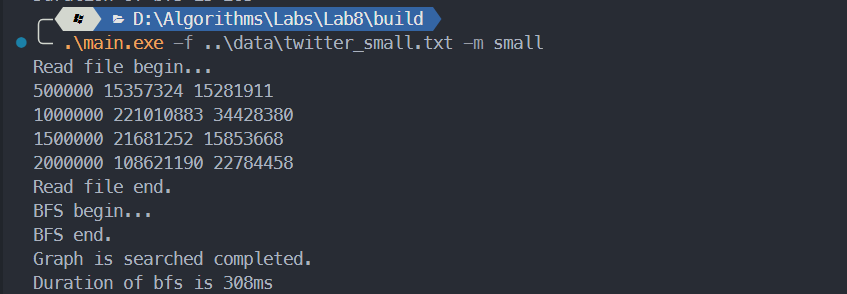
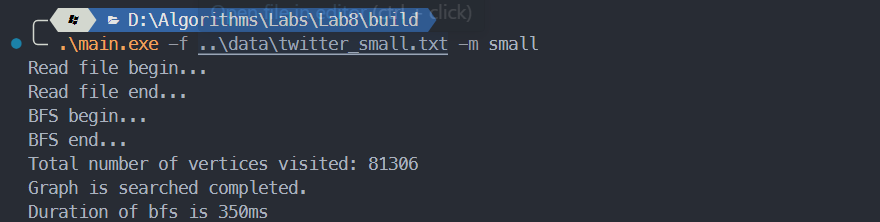
finish report

Changed region(s): [[0.0, 0.0, 0.6446, 1.0]]

diff --git a/Lab8/report/算法第八次实验实验报告.md b/Lab8/report/算法第八次实验实验报告.md
@@ -1,0 +1,161 @@
+# 算法第八次实验实验报告
+
+> 姓名：  王道宇
+>
+> 学号：  PB21030794
+
+## 实验目的
+
+1. 针对图，根据给定的数据选择合适的存储方式（邻接矩阵和邻接表中的一种）进行存储
+2. 进行图的广度优先遍历（BFS）。
+
+## 算法思想设计
+
+### BFS
+
+经典的连通图 BFS 利用队列，维护是否已经访问过的状态 visited，对图的顶点及其邻接点遍历并不断入队，直到所有的结点均访问完毕。经典的 BFS 伪代码如下：
+
+```cpp
+BFS(start){	
+	queue q;
+    q.push(start);
+    visited[start] = 1;
+    while(!q.empty()) {
+        v = q.front();
+        q.pop();
+        print(v);
+        for(each adjacent vertex 'i' of v){
+            if(visited[i] == 0){
+                q.push(i);
+                visited[i] = 1;
+            }
+        }
+    }
+}
+```
+
+非连通图的 BFS 仍然需要利用队列，但是此时需要对所有的未访问顶点调用 BFS 。伪代码如下：
+
+```cpp
+BFS(){
+    for(each vertex of vertices){
+        if(visited[i] == 0){
+			BFS(i);
+        }
+	}
+}
+```
+
+### 存储结构分析
+
+三份数据的特点和结构为：
+
+1. data
+
+   顶点数：9，边数：18，无向连通图
+
+2. twitter_small
+
+   顶点数：81306，边数： 1768149，有向非**强连通图**，有较多重边
+
+3. twitter_large
+
+   顶点数：11316811，边数：85331846，有向非**强连通图**，实际上**无重边**
+
+当图不为稀疏图时，使用邻接矩阵较为方便，可以比较直观地看出顶点间地关系，同时，查看两点之间是否有边相连只需要 O(1) 的复杂度。所以，对于第一份数据，可以直接使用**邻接矩阵**存储。
+
+当图为稀疏图时，比如 twitter_small 和 twitter_large 这两份数据，其 $\frac{E}{V^2}$ 达到了 $2.67\times10^{-4}$ 以及 $6.66\times10^{-7}$ ，那么这两份数据很适合使用**邻接表**存储。
+
+### 复杂度分析
+
+1. 数据结构设计
+
+   在设计邻接表时，使用了如下的数据结构：
+
+   ```cpp
+   	std::unordered_map<int, std::unordered_set<int>> adj_list;
+   	std::unordered_set<int>							 vertices;
+   	std::set<Edge>									 edges;
+   	std::unordered_map<int, bool>					 visited;
+   	int												 num_vertices;
+   	int												 num_edges;
+   ```
+
+   - adj_list
+
+     其键为顶点编号，其值为一个无序集合，保存了这个顶点所有邻边的编号。
+
+   - vertices
+
+     直接使用无序集合保存编号即可。
+
+   - edges
+
+     每一条边都由如下的结构体构成：
+
+     ```cpp
+     struct Edge {
+     public:
+     	Edge(int r, int c);
+     private:
+     	int row;
+     	int col;
+     };
+     ```
+     
+     由于不知道怎么写 unordered_set 的哈希函数，只能使用 set 作为替代，重载了 set 的 < 运算符，定义了 edge之间的偏序关系如下：
+     
+     ```cpp
+     bool Edge::operator<(const Edge &e) const {
+     	return row < e.row || (row == e.row && col < e.col);
+     }
+     ```
+     
+     由于 set 在判断两个值（假设为 a，b）是否相等时会调用该函数，调用方式为：若 a < b 或 b < a 均不成立，那么认为 a 与 b 不相等。可见，按照上述的重载函数，两次比较可以排除除了 $a.row = b.row$ 并且 $a.col = b.col$ 的所有情况，换句话说，当插入重边时，set 保证了过滤所有的重边。考虑 edge 的数量在 BFS 时并没有作用，所以最终在读文件和建图时为了**处理速率**并未使用，只保留了其实现如下：
+     
+     ```cpp
+     edges.insert(std::move(Edge(row, col)));
+     ```
+     
+     其中 move 函数将左值转为右值，加快速率并且转移控制权，避免内存堆积。
+     
+   - visited
+
+     其键为顶点编号，其值为 bool 型变量 true 或 false，代表是否已对该顶点访问过。
+
+   其中 unordered_map 和 unordered_set 均使用 hash 函数，插入删除和查找的时间复杂度均为 $O(1)$。
+
+2. 空间复杂度
+
+   假设顶点数为 n，边数为 m
+
+   - adj_list ：$O(n + m)$
+   - vertices：$O(n)$
+   - edges：$O(2m)$
+   - visited：$O(n)$
+
+   总共空间复杂度为：$O(n + m)$
+
+3. 时间复杂度
+
+   通过摊还分析，对每个顶点调用 BFS 并不会导致最终时间复杂度为顶点数乘 BFS 的时间复杂度，考虑到顶点的 visited 状态会实时更新，所以时间复杂度其实是顶点数加 BFS 的时间复杂度。
+
+   考虑 BFS 的时间复杂度，由于需要遍历一次且仅有一次所有的顶点和边，所以 BFS 的时间复杂度为 $O(m + n)$ 。
+
+   所有最终总的时间度为：$O(m + n)$ 。
+
+## 实验结果
+
+- data
+
+  ![](assets/3.png)
+
+- twitter_small
+
+  ![](assets/2.png)
+
+- twitter_large
+
+  ![](assets/1.png)
+
+最终遍历的顶点数与给定的顶点数相同，说明 BFS 的过程正确。
